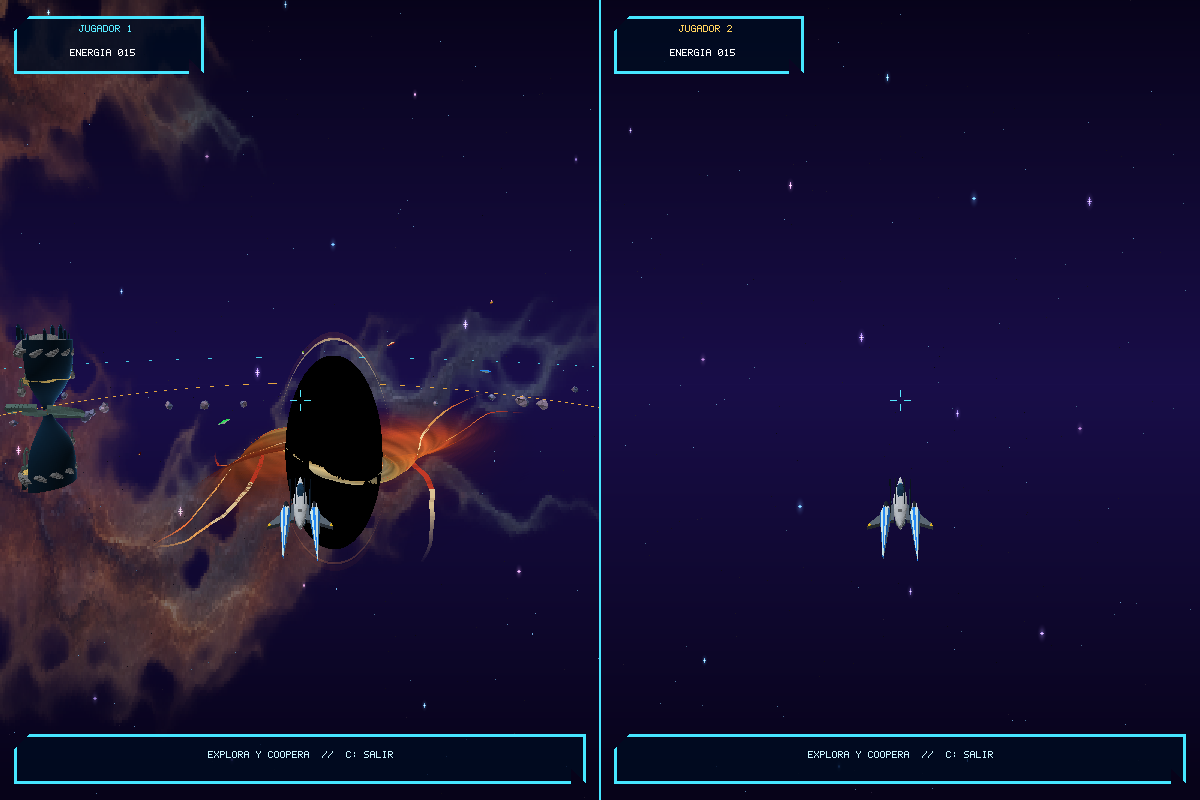
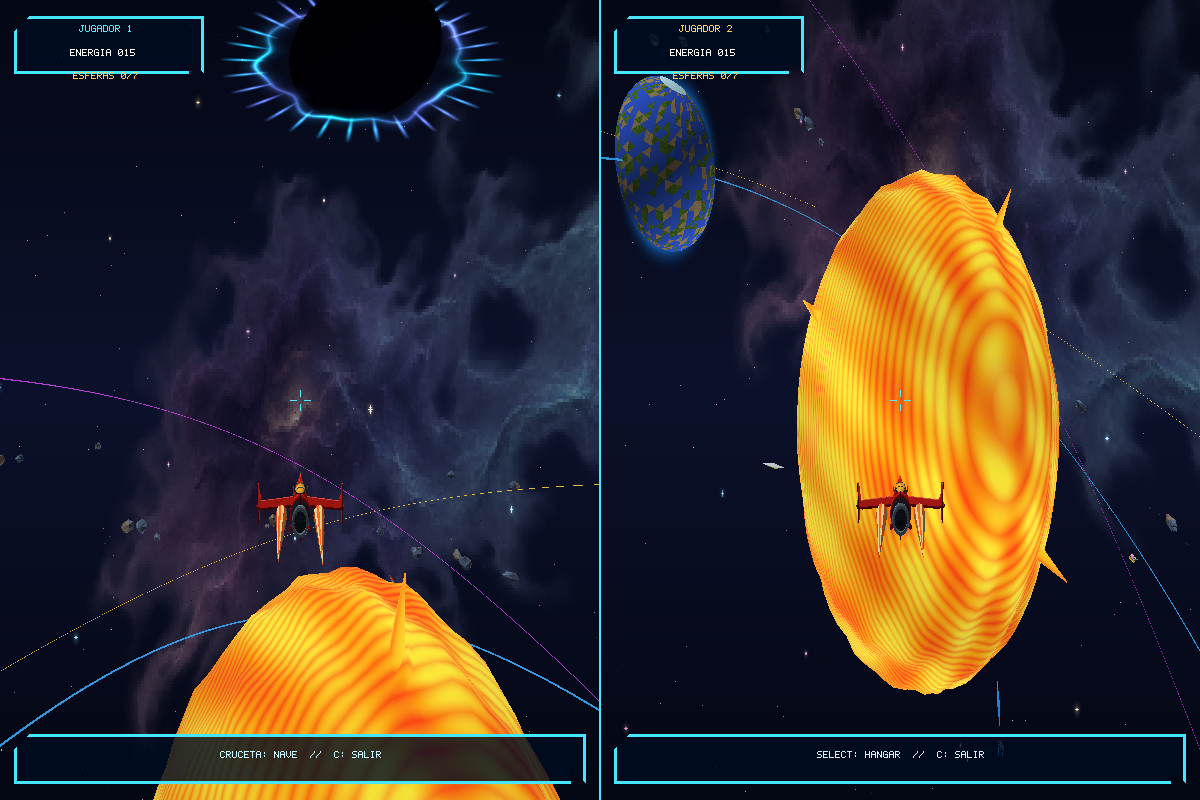
Sound effects

diff --git a/src/main.rs b/src/main.rs
@@ -4055,24 +4055,52 @@ fn draw_wormhole_energy(framebuffer: &mut Framebuffer, camera: &Camera, center: 
 }
 
 fn make_turbo_plume(segments: usize) -> Model {
-    let mut vertices = vec![Vec3::new(-1.0, 0.0, 0.0)];
-    for segment in 0..segments {
-        let angle = TAU * segment as f32 / segments as f32;
-        vertices.push(Vec3::new(0.0, angle.cos(), angle.sin()));
-    }
-
+    // A layered, irregular shell reads as a soft volumetric cloud when viewed
+    // from behind the ship, while staying cheap enough for the software renderer.
+    let segments = segments.max(6);
+    let rings: [(f32, f32, u8); 6] = [
+        (-1.0, 0.07, 13),
+        (-0.82, 0.62, 31),
+        (-0.60, 1.05, 46),
+        (-0.37, 1.0, 42),
+        (-0.16, 0.66, 29),
+        (0.0, 0.28, 17),
+    ];
+    let mut vertices = Vec::with_capacity(rings.len() * segments * 2);
     let mut faces = Vec::new();
-    for segment in 0..segments {
-        let next = (segment + 1) % segments;
-        faces.push(Face::new(
-            [0, segment + 1, next + 1],
-            if segment % 2 == 0 {
-                "turbo_core"
-            } else {
-                "turbo_glow"
-            },
-            "turbo",
-        ));
+
+    // The outer haze and brighter inner exhaust are nested translucent shells.
+    // Slight deterministic variation around each ring breaks the rigid cone shape.
+    for (shell, material, radius_scale, alpha_scale) in [
+        (0, "turbo", 1.0_f32, 1.0_f32),
+        (1, "turbo_core", 0.56_f32, 1.2_f32),
+    ] {
+        let base = vertices.len();
+        for (ring_index, (x, radius, _)) in rings.iter().enumerate() {
+            for segment in 0..segments {
+                let angle = TAU * segment as f32 / segments as f32;
+                let wobble = 1.0
+                    + 0.11 * (angle * 3.0 + ring_index as f32 * 1.7 + shell as f32).sin()
+                    + 0.045 * (angle * 5.0 - ring_index as f32 * 0.8).cos();
+                let r = radius * radius_scale * wobble;
+                vertices.push(Vec3::new(*x, angle.cos() * r, angle.sin() * r));
+            }
+        }
+        for ring_index in 0..rings.len() - 1 {
+            let ring_alpha = (rings[ring_index].2 as f32 * alpha_scale).round() as u8;
+            let next_alpha = (rings[ring_index + 1].2 as f32 * alpha_scale).round() as u8;
+            let alpha = ((ring_alpha as u16 + next_alpha as u16) / 2).min(105) as u8;
+            for segment in 0..segments {
+                let next = (segment + 1) % segments;
+                let a = base + ring_index * segments + segment;
+                let b = base + ring_index * segments + next;
+                let c = base + (ring_index + 1) * segments + next;
+                let d = base + (ring_index + 1) * segments + segment;
+                let group = format!("turbo_cloud_{alpha}");
+                faces.push(Face::new([a, b, c], material, group.clone()));
+                faces.push(Face::new([a, c, d], material, group));
+            }
+        }
     }
     Model::new(vertices, faces)
 }
@@ -4627,7 +4655,7 @@ fn move_around_planet(
 
 enum TriangleStyle {
     Flat(u32),
-    BlackHolePlasma {
+    Translucent {
         color: u32,
         alpha: u8,
     },
@@ -4971,7 +4999,7 @@ impl TriangleBatch {
                                 c,
                                 |_, _, _, _, _| *color,
                             ),
-                            TriangleStyle::BlackHolePlasma { color, alpha } => {
+                            TriangleStyle::Translucent { color, alpha } => {
                                 draw_triangle_alpha_region(
                                     tile_pixels,
                                     tile_depth,
@@ -5292,7 +5320,27 @@ fn queue_model_with_scratch<F>(
             let color = flat_color.map(|channel| (channel as f32 * pulse).clamp(0.0, 255.0) as u8);
             batch.commands.push(TriangleCommand {
                 vertices: [a, b, c],
-                style: TriangleStyle::BlackHolePlasma {
+                style: TriangleStyle::Translucent {
+                    color: pack(color, 1.0),
+                    alpha,
+                },
+            });
+            continue;
+        }
+
+        if let Some(alpha) = face
+            .group
+            .strip_prefix("turbo_cloud_")
+            .and_then(|value| value.parse::<u8>().ok())
+        {
+            let center = v0.add(v1).add(v2).mul(1.0 / 3.0);
+            let phase = water_time.unwrap_or_default() * 14.0 + center.y * 8.0 + center.z * 6.0;
+            let pulse = 0.90 + phase.sin() * 0.10;
+            let color = flat_color.map(|channel| (channel as f32 * pulse).clamp(0.0, 255.0) as u8);
+            let alpha = (alpha as f32 * (0.88 + pulse * 0.12)).clamp(0.0, 120.0) as u8;
+            batch.commands.push(TriangleCommand {
+                vertices: [a, b, c],
+                style: TriangleStyle::Translucent {
                     color: pack(color, 1.0),
                     alpha,
                 },
@@ -5884,7 +5932,7 @@ fn render_ship_components(
                         .add(right.mul(vertex.y * plume_radius))
                         .add(up.mul(vertex.z * plume_radius))
                 },
-                None,
+                Some(world_time),
                 Some(ship.spec),
             );
         }
